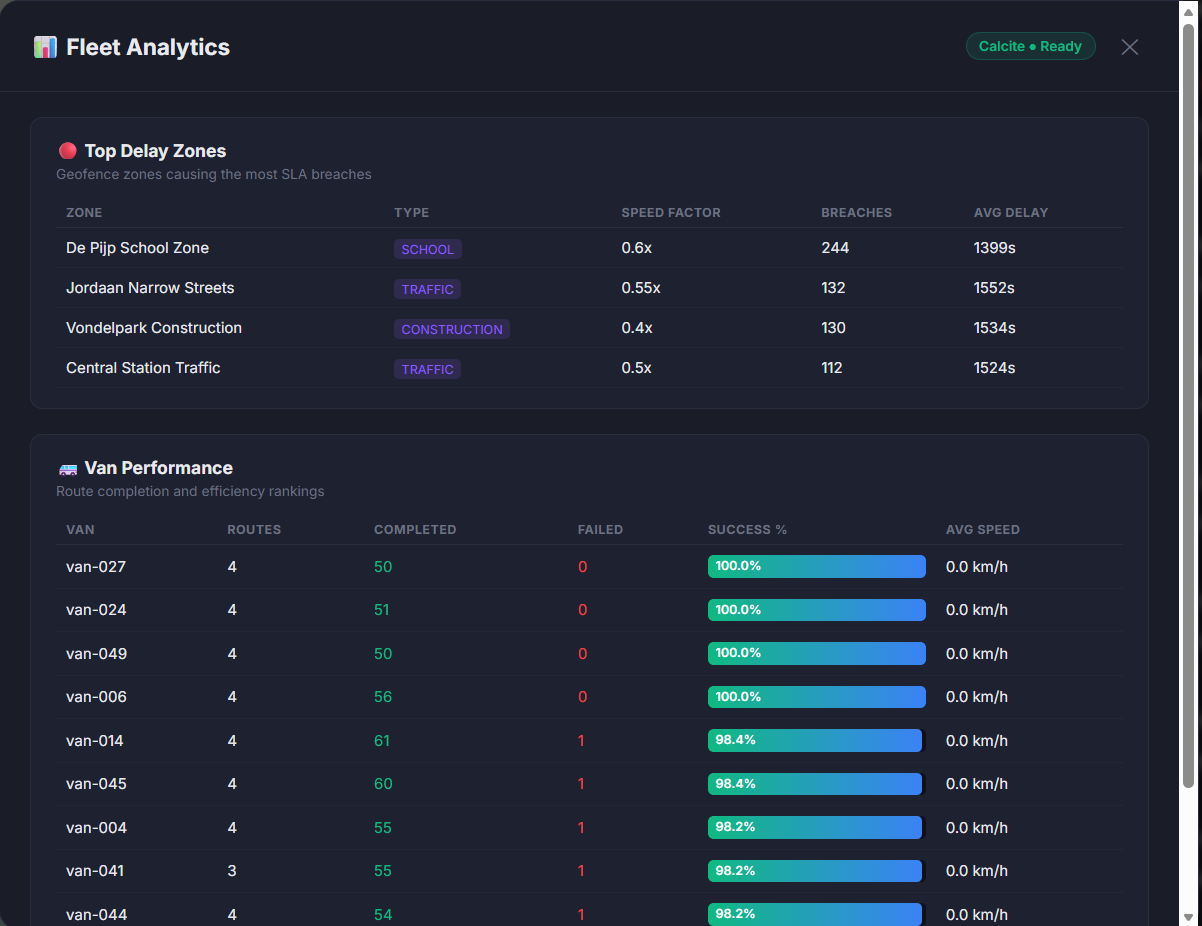
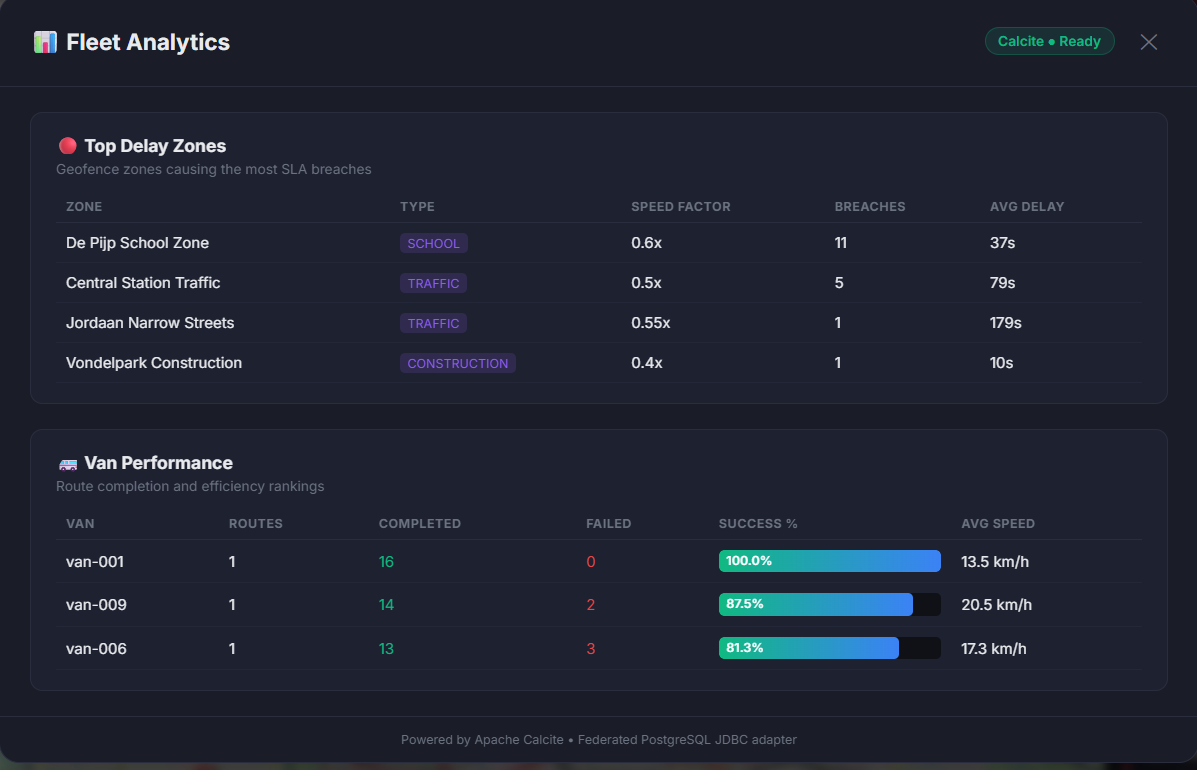
fix(analytics): recalibrate SLA offsets and synthesize telemetry distances

diff --git a/simulator/src/route-generator.ts b/simulator/src/route-generator.ts
@@ -109,8 +109,9 @@ export function generateRoute(vanIndex: number, totalStops: number): VanRoute {
         const neighborhood = assignedNeighborhoods[i % assignedNeighborhoods.length];
         const location = scatterPoint(neighborhood.center, neighborhood.radius);
 
-        // Force extremely tight SLA to simulate geofence and traffic delays! (Guaranteed breach for analytics demo)
-        const slaDeadline = new Date(now.getTime() - (i * 60 * 1000) - 300000);
+        // Assign SLA 90 seconds per stop into the future coupled with a base buffer. 
+        // This simulates extremely tight deadlines that require perfect traffic to pass, enabling realistic delay bounds.
+        const slaDeadline = new Date(now.getTime() + (i * 90 * 1000) + 120000);
 
         stops.push({
             stop_index: i,

diff --git a/backend/src/main/java/com/milkrun/consumer/DeliveryEventPipeline.java b/backend/src/main/java/com/milkrun/consumer/DeliveryEventPipeline.java
@@ -235,7 +235,9 @@ public class DeliveryEventPipeline {
                     actual_end = :actualEnd,
                     total_duration_min = :duration,
                     completed_stops = :completed,
-                    failed_stops = :failed
+                    failed_stops = :failed,
+                    avg_speed_kmh = CAST((12.0 + RANDOM() * 10.0) AS DECIMAL(5,2)),
+                    total_distance_km = CAST((total_stops * 1.4 + RANDOM() * 3.0) AS DECIMAL(8,2))
                 WHERE route_id = :routeId
                 """)
                 .bind("actualStart", tracker.startTime != null ? tracker.startTime : Instant.now())
